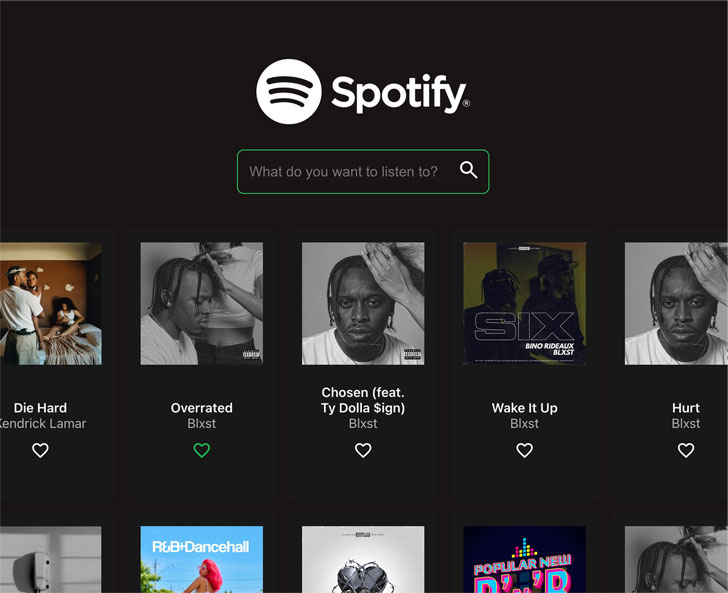
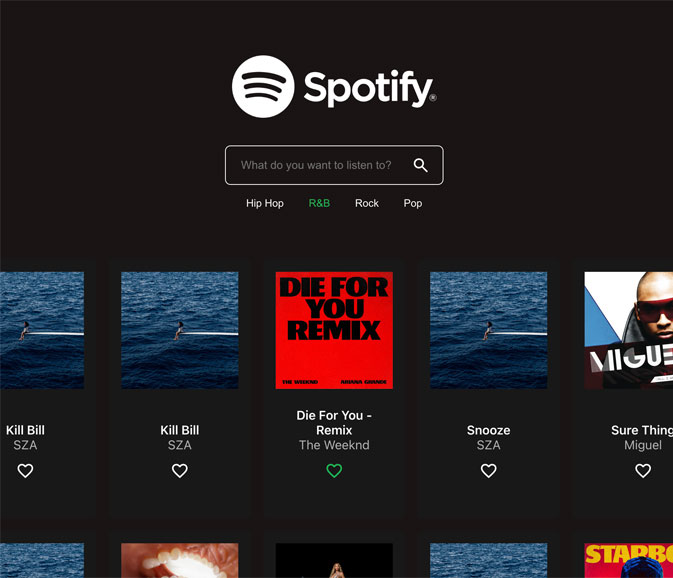
last commit

diff --git a/src/App.js b/src/App.js
@@ -18,30 +18,33 @@ function App() {
   ];
 
   useEffect(() => {
-    const options = {
-      method: "GET",
-      url: "https://spotify23.p.rapidapi.com/search/",
-      params: {
-        q: `genre:${genre}`,
-        type: "multi",
-        offset: "0",
-        limit: "10",
-        numberOfTopResults: "5",
-      },
-      headers: {
-        "X-RapidAPI-Key": "4813ee6010mshf254a98ee454b41p12fe94jsnf0bb9b611826",
-        "X-RapidAPI-Host": "spotify23.p.rapidapi.com",
-      },
-    };
+    if (genre !== "") {
+      const options = {
+        method: "GET",
+        url: "https://spotify23.p.rapidapi.com/search/",
+        params: {
+          q: `genre:${genre}`,
+          type: "multi",
+          offset: "0",
+          limit: "10",
+          numberOfTopResults: "5",
+        },
+        headers: {
+          "X-RapidAPI-Key":
+            "730d60cdc4mshd1038ddc2977edfp184505jsn8bdb7d7b9875",
+          "X-RapidAPI-Host": "spotify23.p.rapidapi.com",
+        },
+      };
 
-    axios
-      .request(options)
-      .then(function (response) {
-        setData(response.data);
-      })
-      .catch(function (error) {
-        console.error(error);
-      });
+      axios
+        .request(options)
+        .then(function (response) {
+          setData(response.data);
+        })
+        .catch(function (error) {
+          console.error(error);
+        });
+    }
   }, [genre]);
 
   return (
@@ -53,7 +56,7 @@ function App() {
           setGenre={setGenre}
           genre={genre}
         />
-        <List data={data} />
+        <List data={data} genre={genre} />
         {data && <Footer />}
       </div>
     </div>

diff --git a/src/components/header/Header.js b/src/components/header/Header.js
@@ -22,7 +22,7 @@ const Header = ({ setData, genreList, setGenre, genre }) => {
         numberOfTopResults: "5",
       },
       headers: {
-        "X-RapidAPI-Key": "4813ee6010mshf254a98ee454b41p12fe94jsnf0bb9b611826",
+        "X-RapidAPI-Key": "730d60cdc4mshd1038ddc2977edfp184505jsn8bdb7d7b9875",
         "X-RapidAPI-Host": "spotify23.p.rapidapi.com",
       },
     };
@@ -33,6 +33,7 @@ const Header = ({ setData, genreList, setGenre, genre }) => {
           wrapperRef.current.classList.remove("active");
           setData(response.data);
           setQuery("");
+          setGenre("");
         })
         .catch(function (error) {
           console.error(error);

diff --git a/src/App.css b/src/App.css
@@ -71,6 +71,18 @@
   -o-animation: fadein 1s; /* Opera < 12.1 */
   animation: fadein 1s;
 }
+.result img {
+  width: 150px;
+}
+
+@media only screen and (max-width: 508px) {
+  .result {
+    width: 100px;
+  }
+  .result img {
+    width: 100px;
+  }
+}
 
 .result:hover {
   background-color: #282828;

diff --git a/src/components/song/Song.js b/src/components/song/Song.js
@@ -32,7 +32,6 @@ const Song = ({ result, playlist, setPlaylist }) => {
     <div className="result" key={result.data.id}>
       <img
         src={result.data.albumOfTrack.coverArt.sources[0].url}
-        width="150px"
         alt={result.data.name}
       />
       <div className="trackInfo">

diff --git a/src/components/list/List.js b/src/components/list/List.js
@@ -2,7 +2,7 @@ import { useState } from "react";
 import LikedSongs from "../likedSongs/LikedSongs";
 import Song from "../song/Song";
 
-const List = ({ data }) => {
+const List = ({ data, genre }) => {
   const [playlist, setPlaylist] = useState([]);
 
   function getArtists(trackId) {
